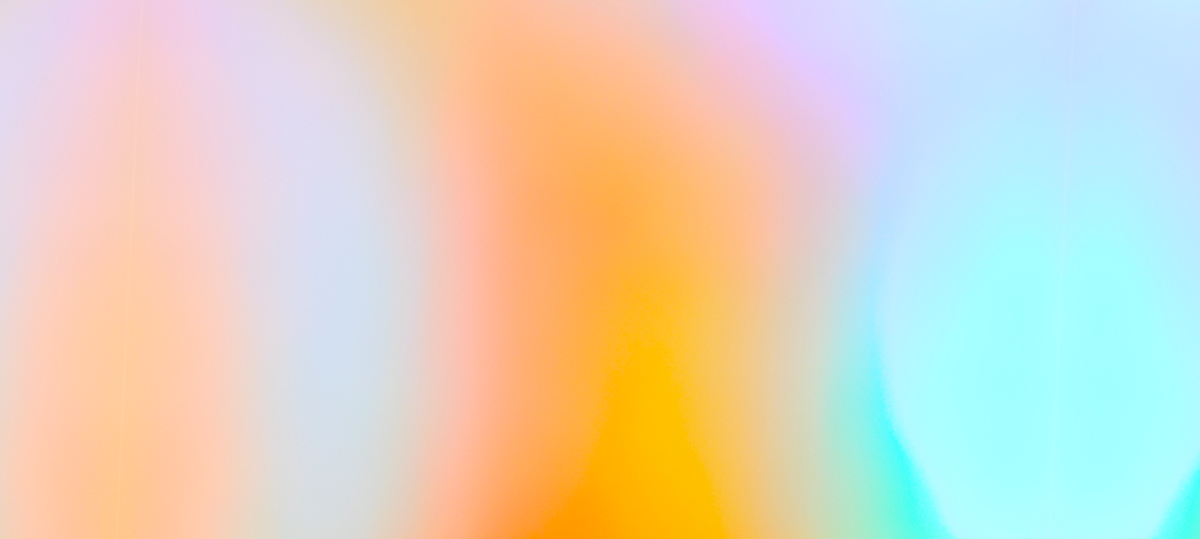
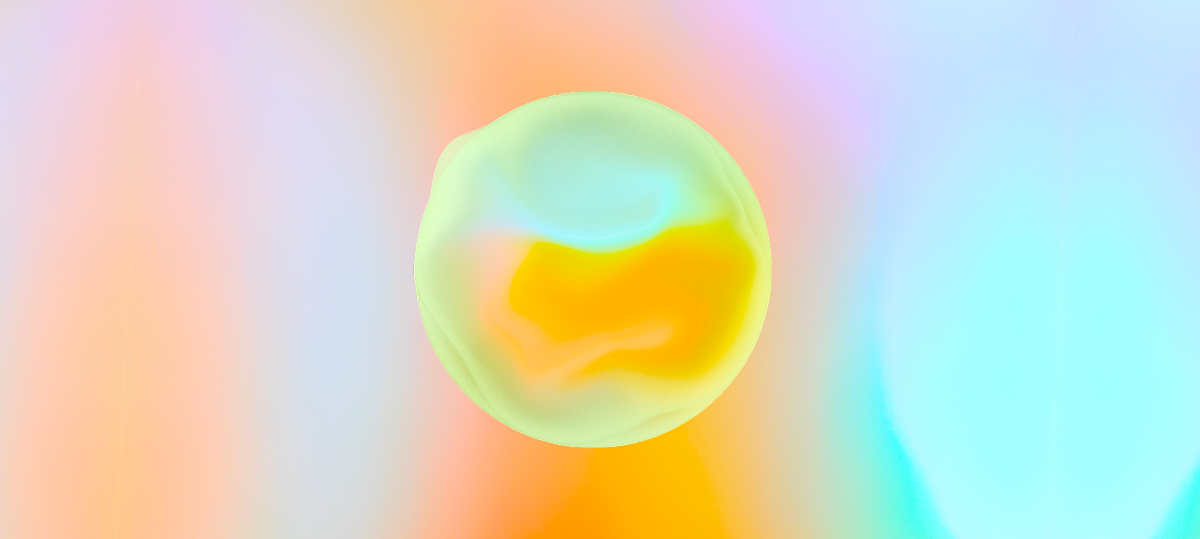
c

Changed region(s): [[0.3392, 0.1484, 0.6475, 0.8312]]

diff --git a/javascript/main.js b/javascript/main.js
@@ -6,9 +6,9 @@ const restartButton = qs(".restart-button");
 
 const personImage = qs(".person-image");
 const mainBg = qs(".main-bg");
-const mainSphere = qs(".main-sphere");
-const floating = qs(".bg-floating");
-const floatingOffset = qs(".bg-floating-offset");
+// const mainSphere = qs(".main-sphere");
+// const floating = qs(".bg-floating");
+// const floatingOffset = qs(".bg-floating-offset");
 
 const pulse = qs(".pulse-image");
 const fly = qs(".fly-image");
@@ -35,7 +35,7 @@ let enabled = false;
 
 const SCENES = [
   {
-    bg: "images/greenBackground.webp",
+    bg: "images/earthBg.png",
     human: "images/gradientGreenHuman.webp",
     class: "person-green",
     rotate: "-80deg",
@@ -46,9 +46,10 @@ const SCENES = [
     floatingOpacity: 0.2,
     flyBlendMode: "screen",
     flyOpacity: 0.66,
+    pulseBlend: "screen",
   },
   {
-    bg: "images/waterBackground.webp",
+    bg: "images/waterBg.png",
     human: "images/waterHuman.webp",
     class: "person-blue",
     rotate: "0deg",
@@ -59,6 +60,7 @@ const SCENES = [
     floatingOffsetY: "50%",
     flyBlendMode: "hard-light",
     flyOpacity: 0.8,
+    pulseBlend: "normal",
   },
   {
     bg: "images/fireBackground.webp",
@@ -71,9 +73,10 @@ const SCENES = [
     floating: null,
     flyBlendMode: "overlay",
     flyOpacity: 0.48,
+    pulseBlend: "overlay",
   },
   {
-    bg: "images/airBackground.webp",
+    bg: "images/cloudBg.png",
     human: "images/airHuman.webp",
     class: "person-air",
     rotate: "0deg",
@@ -83,6 +86,7 @@ const SCENES = [
     floating: "images/floatingClouds.webp",
     floatingOpacity: 0.3,
     flyOpacity: 0.8,
+    pulseBlend: "soft-light",
   },
 ];
 
@@ -135,7 +139,7 @@ function activateScene(index, sphere) {
     qs(".person-float").classList.add("active");
 
     if (index === 0) {
-      mainSphere.style.display = "none";
+      // mainSphere.style.display = "none";
 
       personImage.classList.remove("active");
       personImage.classList.add("fixed", scene.class);
@@ -153,22 +157,22 @@ function activateScene(index, sphere) {
 
     mainBg.src = scene.bg;
 
-    if (scene.floating) {
-      floating.style.display = "block";
-      floating.src = scene.floating;
-      floating.classList.add("visible");
-      floating.classList.remove("fixed");
+    // if (scene.floating) {
+    //   floating.style.display = "block";
+    //   floating.src = scene.floating;
+    //   floating.classList.add("visible");
+    //   floating.classList.remove("fixed");
 
-      floating.style.opacity =
-        scene.floatingOpacity !== undefined ? scene.floatingOpacity : "1";
+    //   floating.style.opacity =
+    //     scene.floatingOpacity !== undefined ? scene.floatingOpacity : "1";
 
-      floatingOffset.style.setProperty(
-        "--offsetY",
-        scene.floatingOffsetY || "0%",
-      );
-    } else {
-      floating.style.display = "none";
-    }
+    //   floatingOffset.style.setProperty(
+    //     "--offsetY",
+    //     scene.floatingOffsetY || "0%",
+    //   );
+    // } else {
+    //   floating.style.display = "none";
+    // }
   });
 
   playEnergy(scene, () => {
@@ -193,9 +197,12 @@ function playEnergy(scene, onFinish) {
   fly.src = scene.fly;
 
   fly.style.mixBlendMode = scene.flyBlendMode || "normal";
+  pulse.style.mixBlendMode = scene.pulseBlend || "normal";
 
   pulse.classList.remove("fade-out", "active");
   fly.classList.remove("fly-out", "active");
+  qs(".bg-float").classList.add("active");
+
 
   setTimeout(() => pulse.classList.add("active"), 1200);
   setTimeout(() => fly.classList.add("active"), 800);
@@ -203,8 +210,9 @@ function playEnergy(scene, onFinish) {
   setTimeout(() => {
     pulse.classList.add("fade-out");
     fly.classList.add("fly-out");
-    floating.classList.add("fixed");
+    // floating.classList.add("fixed");
     qs(".person-float").classList.remove("active");
+    qs(".bg-float").classList.remove("active");
     onFinish();
   }, 6000);
 }
@@ -216,7 +224,7 @@ function playEnergy(scene, onFinish) {
 function endScene() {
   personImage.style.display = "none";
   floatingSpheres.style.display = "none";
-  floating.classList.remove("visible");
+  // floating.classList.remove("visible");
 
   setTimeout(() => bgReveal.classList.add("active"), 200);
   setTimeout(() => bgOverlay.classList.add("active"), 1200);

diff --git a/index.html b/index.html
@@ -9,21 +9,24 @@
   </head>
   <body>
     <div class="page-background">
-      <img src="images/gradientBackground.webp" class="bg-image main-bg" />
+      <div class="bg-float">
+      <img src="images/secondBg.png" class="bg-image main-bg" />
       <img src="images/firstBg.png" class="bg-image first-bg-image" />
+      </div>
+      
 
       <img src="images/lotusBackground.webp" class="bg-reveal" />
       <img src="images/humanLotus.png" class="bg-overlay" />
       <img src="images/lotusBlur.webp" class="bg-overlay2" />
 
-      <div class="bg-floating-offset">
+      <!-- <div class="bg-floating-offset">
         <img src="images/greenRock.webp" class="bg-floating" />
-      </div>
+      </div> -->
     </div>
 
     <div class="scene">
       <div class="central-sphere">
-        <img src="images/mainSphere.webp" alt="Сфера" class="main-sphere" />
+        <!-- <img src="images/mainSphere.webp" alt="Сфера" class="main-sphere" /> -->
         <div class="person-float">
           <img
             src="images/gradientGreenHuman.webp"

diff --git a/stylesheets/animation.css b/stylesheets/animation.css
@@ -299,3 +299,29 @@
 .first-bg-image.hide {
   opacity: 0;
 }
+
+.bg-float {
+  position: absolute;
+  inset: -10%;
+  overflow: hidden;
+  will-change: transform;
+
+  animation: bgFloat 10s ease-in-out infinite;
+  animation-play-state: paused;
+}
+
+.bg-float.active {
+  animation-play-state: running;
+}
+
+@keyframes bgFloat {
+  0% {
+    transform: translateY(0);
+  }
+  50% {
+    transform: translateY(-5%);
+  }
+  100% {
+    transform: translateY(0);
+  }
+}

diff --git a/stylesheets/layout.css b/stylesheets/layout.css
@@ -16,6 +16,7 @@
   height: 100%;
   object-fit: cover;
   transition: opacity 1s ease;
+  /* transform: translateY(20%); */
   opacity: 1;
 }
 
@@ -127,6 +128,8 @@
   height: auto;
   mix-blend-mode: lighten;
   opacity: 0.7;
+  position: relative;
+  z-index: 10;
 }
 
 .floating-spheres {
